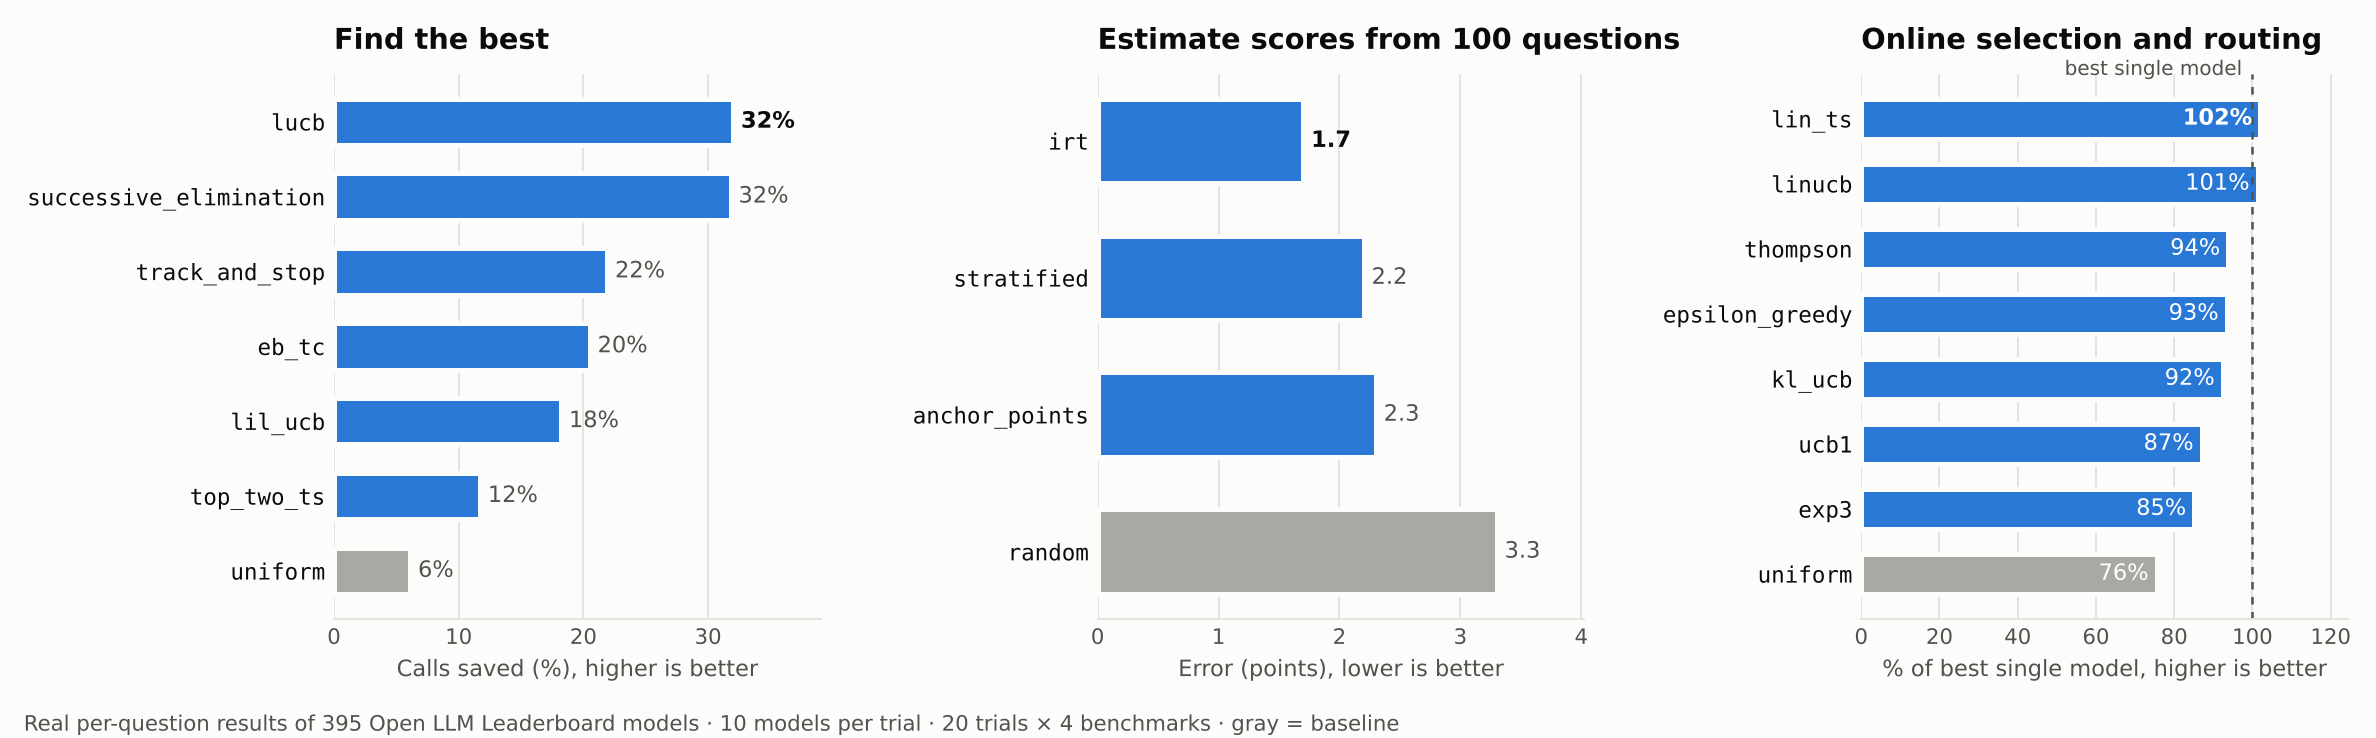
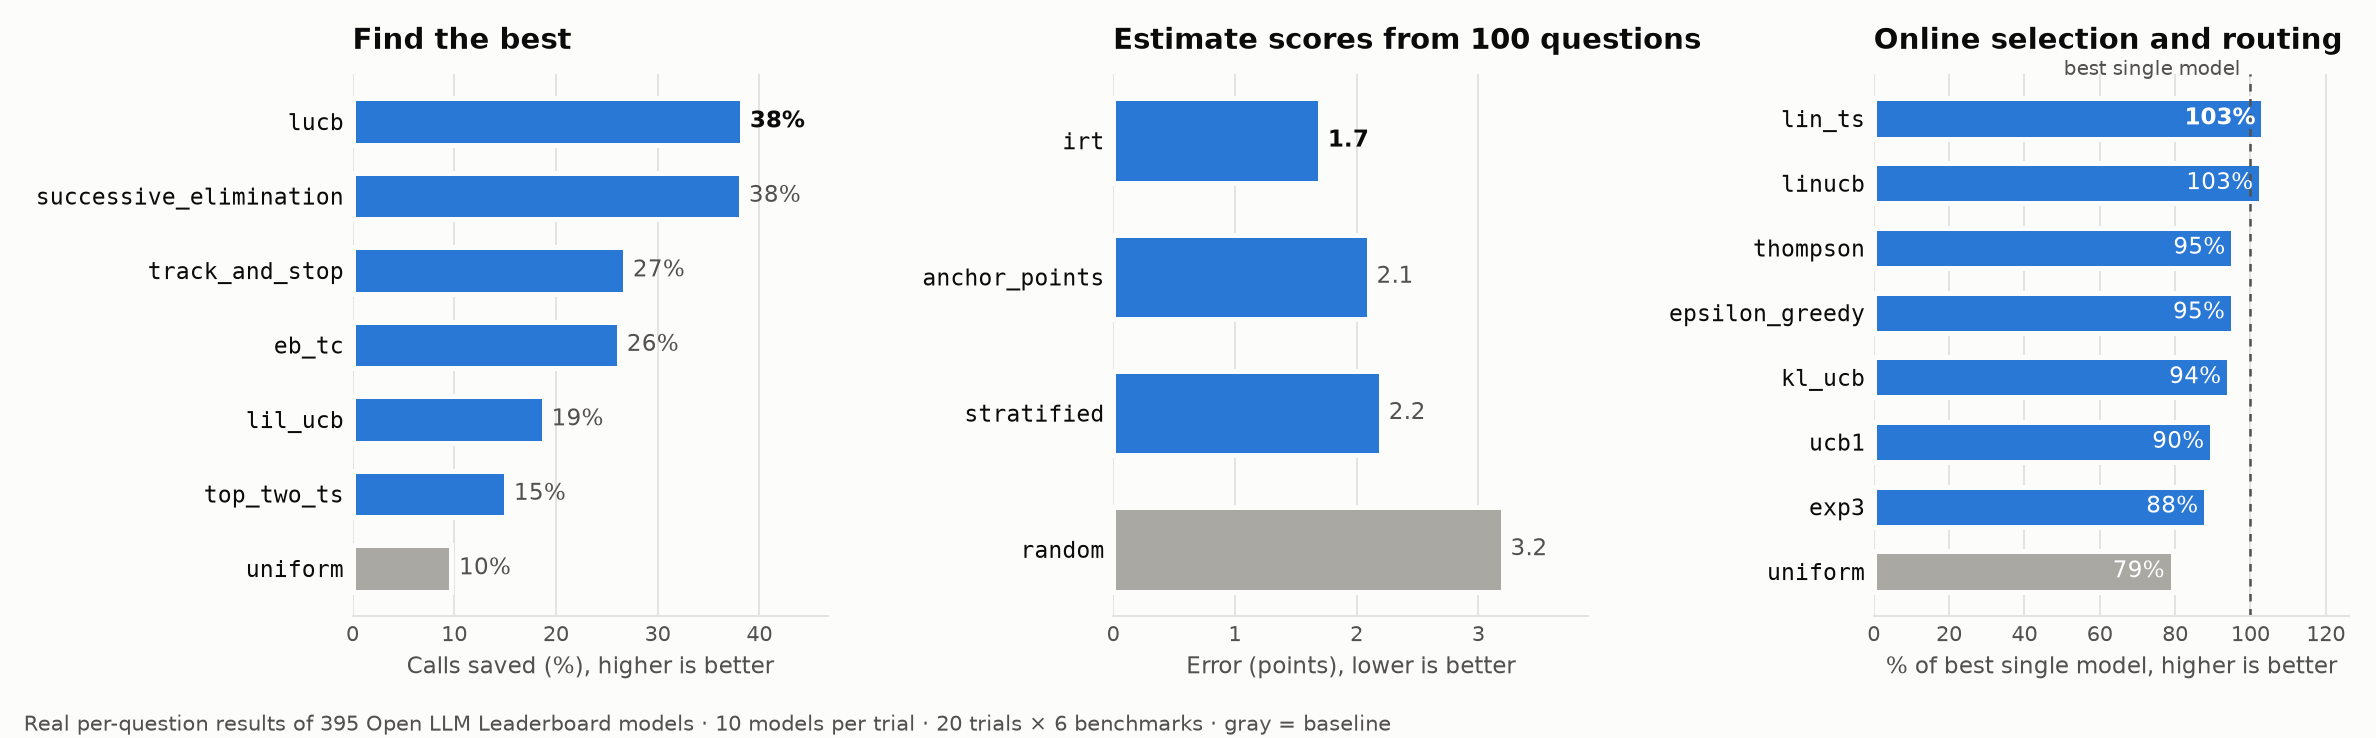
Update benchmark results

diff --git a/BENCHMARKS.md b/BENCHMARKS.md
@@ -1,45 +1,45 @@
 # Benchmarks
 
-Every method on the same real data: per-question results of 395 models from the Open LLM Leaderboard (via tinyBenchmarks, MIT license). 20 trials per task. Reproduce with `python benchmarks/run_all.py`.
+Every method on the same real data: per-question results of 395 models from the Open LLM Leaderboard (via tinyBenchmarks, MIT license). Tasks: arc_challenge, gsm8k, hellaswag, mmlu, truthfulqa, winogrande. 20 trials per task. Reproduce with `python benchmarks/run_all.py`, or run the Benchmark workflow on GitHub.
 
 ## Find the best candidate
 
 10 random leaderboard models per trial; confidence 95%. Fixed-confidence methods stop when the winner is certified; fixed-budget methods get 30% of the full cost. Cells: calls saved versus running everything, and how often the true best model was returned.
 
-| Method | Type | gsm8k | arc_challenge | winogrande | truthfulqa | Avg saved |
-|---|---|---|---|---|---|---|
-| `lucb` | fixed confidence | 65% saved, 100% right | 21% saved, 100% right | 11% saved, 100% right | 30% saved, 100% right | **32%** |
-| `successive_elimination` | fixed confidence | 65% saved, 100% right | 21% saved, 100% right | 11% saved, 100% right | 30% saved, 100% right | **32%** |
-| `track_and_stop` | fixed confidence | 47% saved, 100% right | 12% saved, 100% right | 6% saved, 100% right | 23% saved, 100% right | **22%** |
-| `eb_tc` | fixed confidence | 55% saved, 100% right | 8% saved, 100% right | 4% saved, 100% right | 14% saved, 100% right | **21%** |
-| `lil_ucb` | fixed confidence | 47% saved, 100% right | 8% saved, 100% right | 5% saved, 100% right | 13% saved, 100% right | **18%** |
-| `top_two_ts` | fixed confidence | 24% saved, 100% right | 7% saved, 100% right | 3% saved, 100% right | 14% saved, 100% right | **12%** |
-| `uniform` | baseline | 14% saved, 100% right | 2% saved, 100% right | 1% saved, 100% right | 8% saved, 100% right | **6%** |
-| `successive_halving` | fixed budget | 70% saved, 100% right | 70% saved, 100% right | 70% saved, 95% right | 70% saved, 100% right | 70% (preset) |
-| `successive_rejects` | fixed budget | 70% saved, 100% right | 70% saved, 85% right | 70% saved, 90% right | 70% saved, 95% right | 70% (preset) |
+| Method | Type | arc_challenge | gsm8k | hellaswag | mmlu | truthfulqa | winogrande | Avg saved |
+|---|---|---|---|---|---|---|---|---|
+| `lucb` | fixed confidence | 21% saved, 100% right | 65% saved, 100% right | 32% saved, 100% right | 70% saved, 100% right | 30% saved, 100% right | 11% saved, 100% right | **38%** |
+| `successive_elimination` | fixed confidence | 21% saved, 100% right | 65% saved, 100% right | 32% saved, 100% right | 70% saved, 100% right | 30% saved, 100% right | 11% saved, 100% right | **38%** |
+| `track_and_stop` | fixed confidence | 12% saved, 100% right | 47% saved, 100% right | 20% saved, 100% right | 53% saved, 100% right | 23% saved, 100% right | 6% saved, 100% right | **27%** |
+| `eb_tc` | fixed confidence | 8% saved, 100% right | 55% saved, 100% right | 15% saved, 100% right | 60% saved, 100% right | 14% saved, 100% right | 4% saved, 100% right | **26%** |
+| `lil_ucb` | fixed confidence | 8% saved, 100% right | 47% saved, 100% right | 11% saved, 100% right | 29% saved, 100% right | 13% saved, 100% right | 5% saved, 100% right | **19%** |
+| `top_two_ts` | fixed confidence | 7% saved, 100% right | 24% saved, 100% right | 7% saved, 100% right | 36% saved, 100% right | 14% saved, 100% right | 3% saved, 100% right | **15%** |
+| `uniform` | baseline | 2% saved, 100% right | 14% saved, 100% right | 4% saved, 100% right | 30% saved, 100% right | 8% saved, 100% right | 1% saved, 100% right | **10%** |
+| `successive_halving` | fixed budget | 70% saved, 100% right | 70% saved, 100% right | 70% saved, 100% right | 70% saved, 95% right | 70% saved, 100% right | 70% saved, 95% right | 70% (preset) |
+| `successive_rejects` | fixed budget | 70% saved, 85% right | 70% saved, 100% right | 70% saved, 95% right | 70% saved, 100% right | 70% saved, 95% right | 70% saved, 90% right | 70% (preset) |
 
 ## Estimate every score from 100 examples
 
 10 random leaderboard models per trial, 100 examples each; methods that learn from history use 300 other leaderboard models. Cells: mean absolute error in percentage points and rank correlation with the true scores.
 
-| Method | Type | gsm8k | arc_challenge | winogrande | truthfulqa | Avg error |
-|---|---|---|---|---|---|---|
-| `irt` | model-based | 2.2 pts (rank ρ 0.97) | 1.8 pts (rank ρ 0.89) | 1.5 pts (rank ρ 0.80) | 1.3 pts (rank ρ 0.97) | **1.7 pts** |
-| `stratified` | classical | 2.2 pts (rank ρ 0.96) | 2.4 pts (rank ρ 0.82) | 2.3 pts (rank ρ 0.78) | 1.9 pts (rank ρ 0.95) | **2.2 pts** |
-| `anchor_points` | representative subset | 3.2 pts (rank ρ 0.96) | 1.8 pts (rank ρ 0.94) | 2.6 pts (rank ρ 0.83) | 1.4 pts (rank ρ 0.96) | **2.3 pts** |
-| `random` | baseline | 2.9 pts (rank ρ 0.95) | 3.8 pts (rank ρ 0.90) | 3.6 pts (rank ρ 0.79) | 2.8 pts (rank ρ 0.92) | **3.3 pts** |
+| Method | Type | arc_challenge | gsm8k | hellaswag | mmlu | truthfulqa | winogrande | Avg error |
+|---|---|---|---|---|---|---|---|---|
+| `irt` | model-based | 1.8 pts (rank ρ 0.88) | 2.3 pts (rank ρ 0.97) | 1.1 pts (rank ρ 0.90) | 2.1 pts (rank ρ 0.91) | 1.3 pts (rank ρ 0.97) | 1.5 pts (rank ρ 0.80) | **1.7 pts** |
+| `anchor_points` | representative subset | 1.8 pts (rank ρ 0.94) | 3.2 pts (rank ρ 0.96) | 1.2 pts (rank ρ 0.92) | 2.1 pts (rank ρ 0.93) | 1.4 pts (rank ρ 0.96) | 2.6 pts (rank ρ 0.84) | **2.1 pts** |
+| `stratified` | classical | 2.4 pts (rank ρ 0.82) | 2.2 pts (rank ρ 0.96) | 1.8 pts (rank ρ 0.84) | 2.7 pts (rank ρ 0.89) | 1.9 pts (rank ρ 0.95) | 2.3 pts (rank ρ 0.78) | **2.2 pts** |
+| `random` | baseline | 3.8 pts (rank ρ 0.90) | 2.9 pts (rank ρ 0.95) | 2.6 pts (rank ρ 0.82) | 3.7 pts (rank ρ 0.88) | 2.8 pts (rank ρ 0.92) | 3.6 pts (rank ρ 0.79) | **3.2 pts** |
 
 ## Online selection and routing
 
 10 random leaderboard models; every question in the benchmark arrives once in random order and the method picks one model per question. Cells: average score and its share of what the best single model would score. Above 100% means routing beat every single model.
 
-| Method | Type | gsm8k | arc_challenge | winogrande | truthfulqa | Avg vs best single |
-|---|---|---|---|---|---|---|
-| `lin_ts` | contextual | 0.680 (103%) | 0.712 (102%) | 0.844 (102%) | 0.658 (101%) | **102%** |
-| `linucb` | contextual | 0.678 (103%) | 0.701 (101%) | 0.844 (102%) | 0.649 (100%) | **101%** |
-| `thompson` | non-contextual | 0.619 (94%) | 0.649 (93%) | 0.798 (97%) | 0.598 (92%) | **94%** |
-| `epsilon_greedy` | non-contextual | 0.590 (90%) | 0.660 (95%) | 0.806 (98%) | 0.599 (92%) | **93%** |
-| `kl_ucb` | non-contextual | 0.609 (92%) | 0.645 (93%) | 0.791 (96%) | 0.580 (89%) | **92%** |
-| `ucb1` | non-contextual | 0.540 (82%) | 0.622 (89%) | 0.779 (94%) | 0.540 (83%) | **87%** |
-| `exp3` | adversarial | 0.499 (76%) | 0.623 (89%) | 0.778 (94%) | 0.531 (81%) | **85%** |
-| `uniform` | baseline | 0.299 (45%) | 0.605 (87%) | 0.767 (93%) | 0.503 (77%) | **75%** |
+| Method | Type | arc_challenge | gsm8k | hellaswag | mmlu | truthfulqa | winogrande | Avg vs best single |
+|---|---|---|---|---|---|---|---|---|
+| `lin_ts` | contextual | 0.712 (102%) | 0.680 (103%) | 0.882 (101%) | 0.795 (111%) | 0.658 (101%) | 0.844 (102%) | **103%** |
+| `linucb` | contextual | 0.701 (101%) | 0.678 (103%) | 0.881 (101%) | 0.795 (111%) | 0.649 (100%) | 0.844 (102%) | **103%** |
+| `thompson` | non-contextual | 0.649 (93%) | 0.619 (94%) | 0.858 (98%) | 0.706 (99%) | 0.598 (92%) | 0.798 (97%) | **95%** |
+| `epsilon_greedy` | non-contextual | 0.660 (95%) | 0.590 (90%) | 0.866 (99%) | 0.709 (99%) | 0.599 (92%) | 0.806 (98%) | **95%** |
+| `kl_ucb` | non-contextual | 0.645 (93%) | 0.609 (92%) | 0.855 (98%) | 0.703 (98%) | 0.580 (89%) | 0.791 (96%) | **94%** |
+| `ucb1` | non-contextual | 0.622 (89%) | 0.540 (82%) | 0.838 (96%) | 0.677 (94%) | 0.540 (83%) | 0.779 (94%) | **90%** |
+| `exp3` | adversarial | 0.623 (89%) | 0.499 (76%) | 0.836 (96%) | 0.666 (93%) | 0.531 (81%) | 0.778 (94%) | **88%** |
+| `uniform` | baseline | 0.605 (87%) | 0.299 (45%) | 0.815 (93%) | 0.574 (80%) | 0.503 (77%) | 0.767 (93%) | **79%** |
